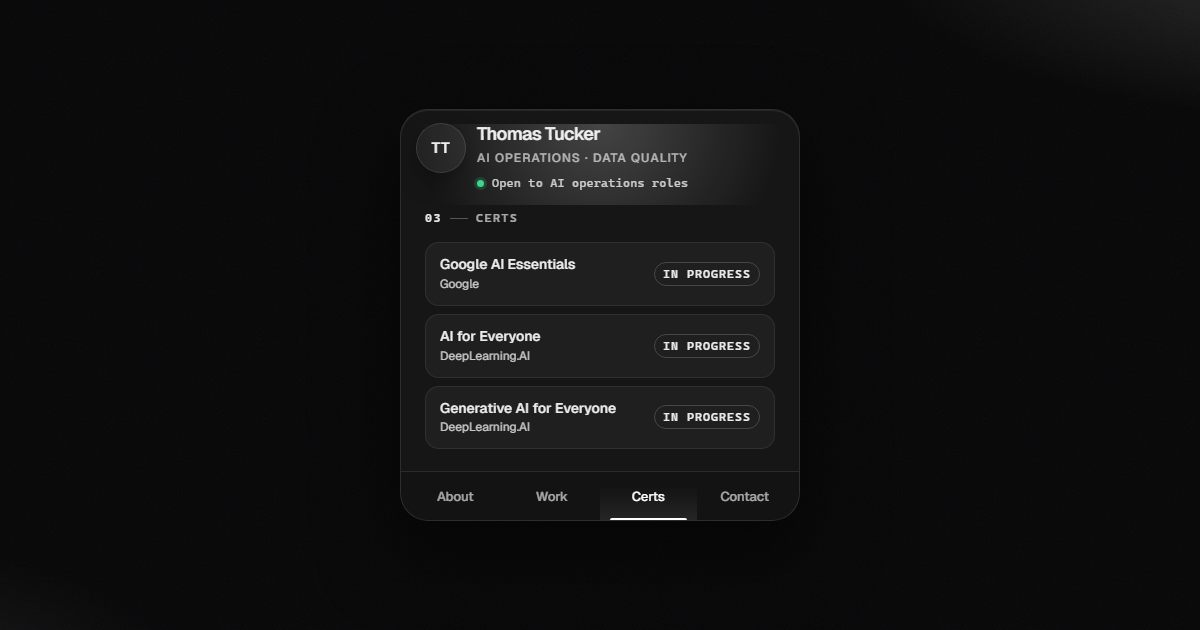
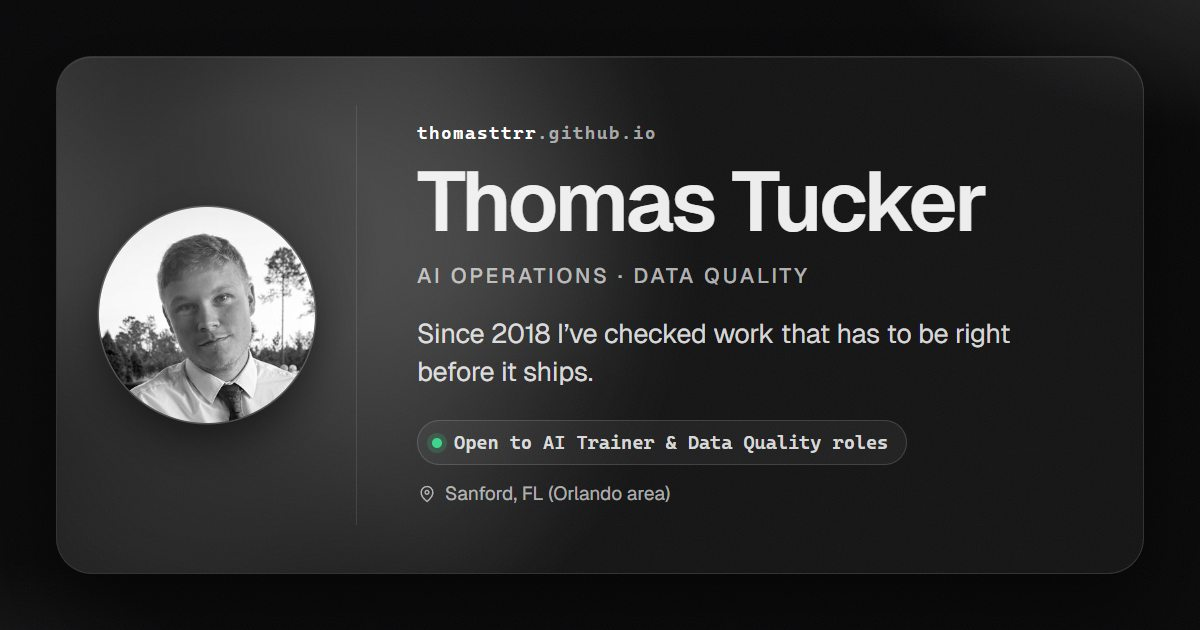
Refresh the link preview image and description
The old preview showed a four-tab card with a monogram and an outdated
status line. The new one is built from the site's own font, colours and
portrait. Descriptions now match the AI trainer / data quality pitch,
using only facts already on the page.

diff --git a/index.html b/index.html
@@ -5,7 +5,7 @@
   <meta name="viewport" content="width=device-width, initial-scale=1">
   <meta name="color-scheme" content="dark">
   <meta name="theme-color" content="#070708">
-  <title>Thomas Tucker — AI Operations</title>
+  <title>Thomas Tucker — AI Operations · Data Quality</title>
   <link rel="icon" href="favicon.svg" type="image/svg+xml">
   <link rel="preload" href="assets/fonts/Geist-Variable.woff2" as="font" type="font/woff2" crossorigin>
 
@@ -13,19 +13,20 @@
     LINK PREVIEW — LinkedIn, iMessage, Slack, and Google read these lines.
     They do not read settings.js. The live address is https://thomasttrr.github.io
   -->
-  <meta name="description" content="Thomas Tucker is moving into AI operations from production and technical support. Sanford, FL. Quality checks, prompts, and reliable workflows.">
+  <meta name="description" content="Thomas Tucker, production print specialist moving into AI trainer and data quality work. Since 2018 he has checked work that has to be right before it ships. Sanford, FL (Orlando area).">
   <meta name="author" content="Thomas Tucker">
-  <meta property="og:title" content="Thomas Tucker — AI Operations">
-  <meta property="og:description" content="Thomas Tucker is moving into AI operations from production and technical support. Sanford, FL. Quality checks, prompts, and reliable workflows.">
+  <link rel="canonical" href="https://thomasttrr.github.io/">
+  <meta property="og:title" content="Thomas Tucker — AI Operations · Data Quality">
+  <meta property="og:description" content="Production print specialist moving into AI trainer and data quality work. Since 2018: checking work that has to be right before it ships.">
   <meta property="og:type" content="website">
   <meta property="og:url" content="https://thomasttrr.github.io/">
   <meta property="og:image" content="https://thomasttrr.github.io/assets/og-image.jpg">
   <meta property="og:image:width" content="1200">
   <meta property="og:image:height" content="630">
-  <meta property="og:image:alt" content="Thomas Tucker, AI operations profile card">
+  <meta property="og:image:alt" content="Thomas Tucker — AI Operations · Data Quality. Open to AI Trainer and Data Quality roles. Sanford, FL.">
   <meta name="twitter:card" content="summary_large_image">
-  <meta name="twitter:title" content="Thomas Tucker — AI Operations">
-  <meta name="twitter:description" content="Thomas Tucker is moving into AI operations from production and technical support. Sanford, FL. Quality checks, prompts, and reliable workflows.">
+  <meta name="twitter:title" content="Thomas Tucker — AI Operations · Data Quality">
+  <meta name="twitter:description" content="Production print specialist moving into AI trainer and data quality work. Since 2018: checking work that has to be right before it ships.">
   <meta name="twitter:image" content="https://thomasttrr.github.io/assets/og-image.jpg">
 
   <link rel="stylesheet" href="styles.css">
